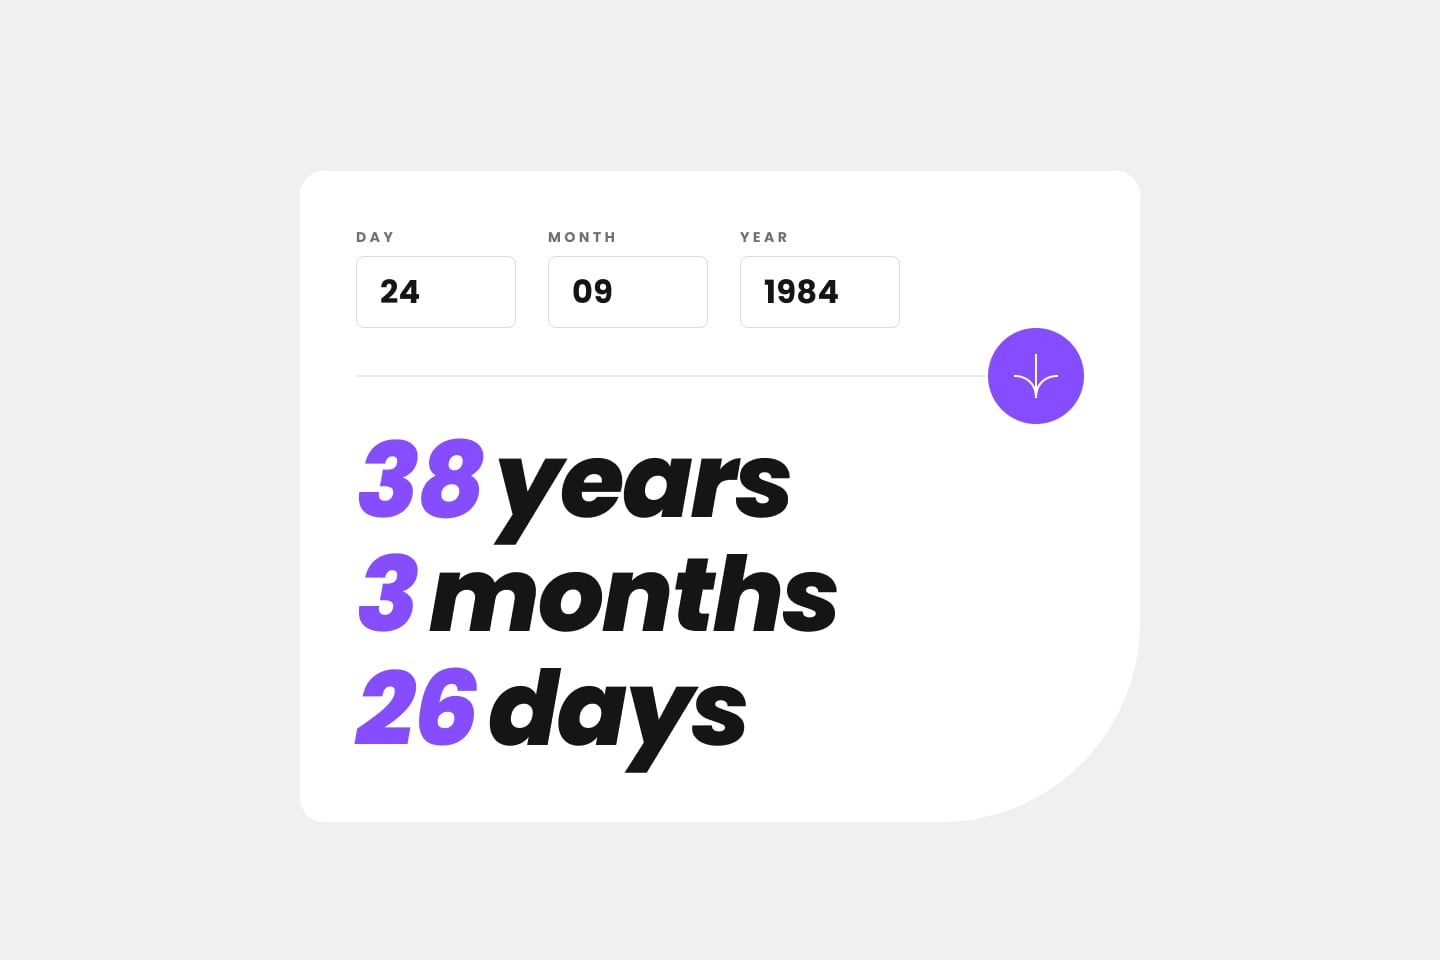
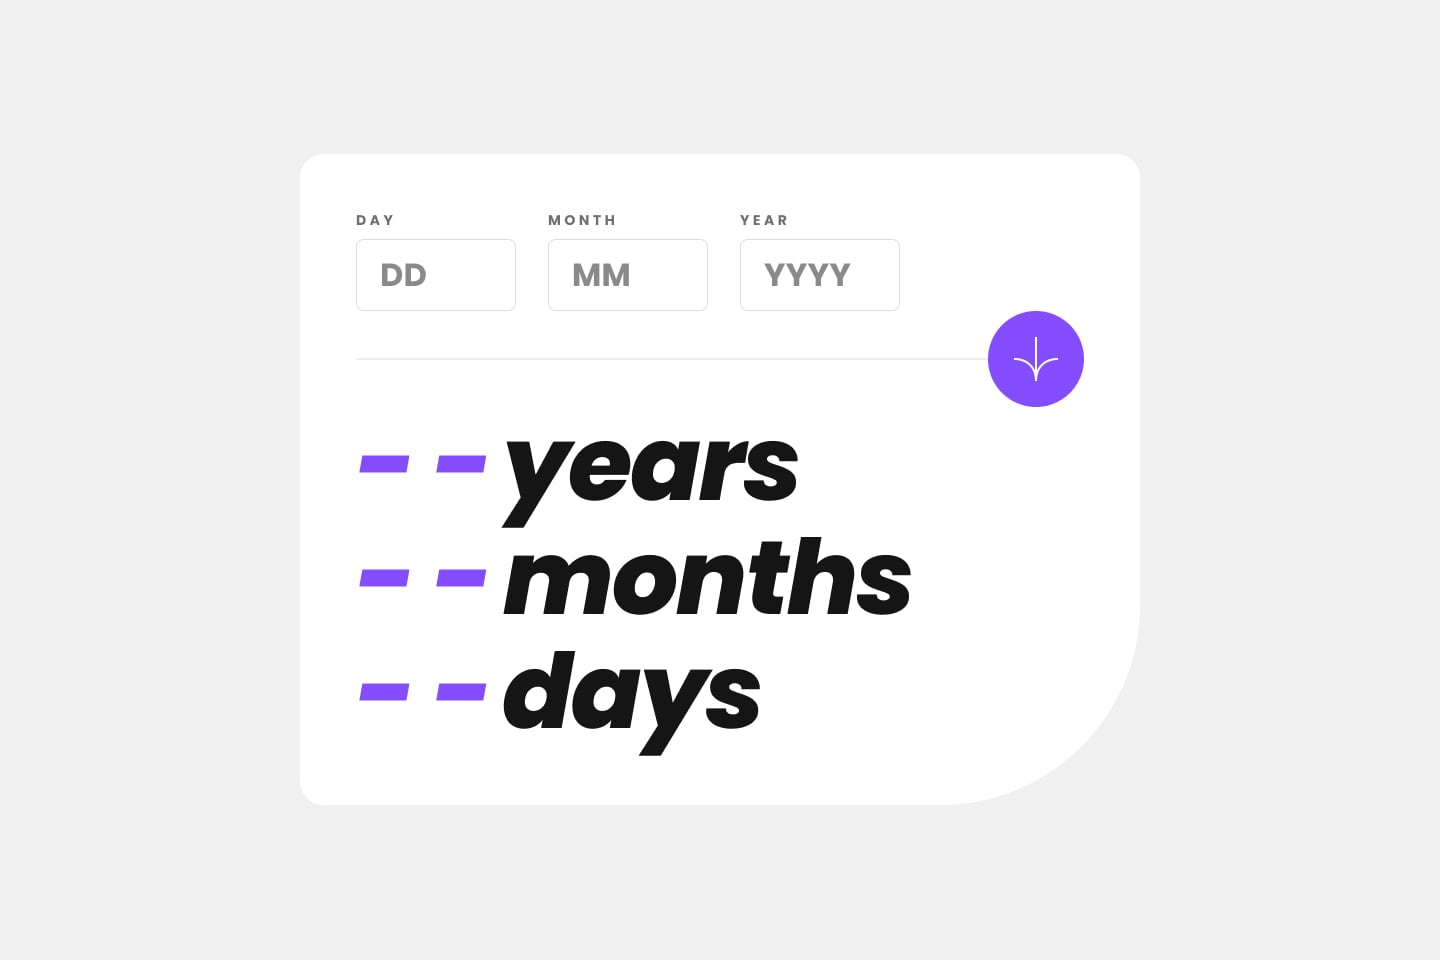
adding mode button to change user exprience :)

diff --git a/src/app/age-calculator/page.tsx b/src/app/age-calculator/page.tsx
@@ -13,6 +13,22 @@ const Page = () => {
   const [monthError, setmonthError] = useState<string>("");
   const [yearError, setyearError] = useState<string>("");
 
+  const [mode, setMode] = useState<string>("normal");
+
+  const switchMode = () => {
+    switch (mode) {
+      case "normal":
+        setMode("dynamic");
+        break;
+      case "dynamic":
+        setMode("normal");
+        break;
+      default:
+        setMode("dynamic");
+        break;
+    }
+  };
+
   const handleAge = () => {
     const word: any = document.querySelectorAll(".word");
     const input: any = document.querySelectorAll("input");
@@ -25,13 +41,13 @@ const Page = () => {
 
     const date = moment(
       `${day.value}/${month.value}/${year.value}`,
-      "DD/MM/YYYY"
+      "D/M/Y",
+      true
     );
 
     const today = moment().format();
     const valid = date.isValid();
     const future = date.isAfter(today);
-    console.log(valid);
 
     const check = () => {
       const dayValue = Number(day.value);
@@ -143,17 +159,37 @@ const Page = () => {
     result();
   };
 
+  const dynamicMode = () => {
+    if (mode === "dynamic") {
+      handleAge();
+    }
+  };
+
   const moving = {
     initial: {
       opacity: 0,
+      y: -50,
     },
     animate: {
       opacity: 1,
+      y: 0,
     },
   };
 
   return (
     <main className={Styles.page}>
+      <motion.button
+        key={mode}
+        variants={moving}
+        initial="initial"
+        animate="animate"
+        className={Styles.mode}
+        onClick={() => {
+          switchMode();
+        }}
+      >
+        {mode}
+      </motion.button>
       <section className={Styles.container}>
         <ul className={Styles.inputs}>
           <li className={Styles.input}>
@@ -163,6 +199,9 @@ const Page = () => {
               type="number"
               placeholder="dd"
               min={1}
+              onChange={() => {
+                dynamicMode();
+              }}
             />
             <span className={Styles.error}>{dayError}</span>
           </li>
@@ -173,6 +212,9 @@ const Page = () => {
               type="number"
               placeholder="mm"
               min={1}
+              onChange={() => {
+                dynamicMode();
+              }}
             />
             <span className={Styles.error}>{monthError}</span>
           </li>
@@ -182,14 +224,18 @@ const Page = () => {
               className={Styles.three}
               type="number"
               placeholder="yyyy"
-              min={0}
+              onChange={() => {
+                dynamicMode();
+              }}
             />
             <span className={Styles.error}>{yearError}</span>
           </li>
         </ul>
+
         <div className={Styles.divider}>
           <div className={Styles.line} />
-          <div
+          <button
+            disabled={mode === "dynamic" ? true : false}
             className={Styles.button}
             onClick={() => {
               handleAge();
@@ -211,8 +257,9 @@ const Page = () => {
                 <path d="M1 22.019C8.333 21.686 23 25.616 23 44M23 44V0M45 22.019C37.667 21.686 23 25.616 23 44" />
               </g>
             </svg>
-          </div>
+          </button>
         </div>
+
         <ul className={Styles.result}>
           <li className={Styles.status}>
             <motion.p

diff --git a/src/app/age-calculator/page.module.css b/src/app/age-calculator/page.module.css
@@ -7,6 +7,42 @@
   justify-content: center;
   align-items: center;
 
+  .mode {
+    position: absolute;
+    top: 20px;
+    background-color: hsl(259, 100%, 65%);
+
+    padding: 0px 20px;
+    border-radius: 8px;
+    color: white;
+    font-family: rafah;
+    font-size: 1.5rem;
+    font-feature-settings: "aalt";
+    text-transform: uppercase;
+    cursor: pointer;
+    transition: 0.3s;
+    text-align: center;
+    z-index: 1;
+    box-shadow: 0px 0px 0px black;
+
+    &:hover {
+      background-color: black;
+      box-shadow: 10px 10px 1px hsl(259, 100%, 65%);
+    }
+
+    @media screen and (max-width: 768px) {
+      &:hover {
+        background-color: hsl(259, 100%, 65%);
+        box-shadow: 0px 0px 0px black;
+      }
+
+      &:active {
+        background-color: black;
+        box-shadow: 10px 10px 1px hsl(259, 100%, 65%);
+      }
+    }
+  }
+
   .container {
     background-color: white;
     height: 70vh;
@@ -116,8 +152,22 @@
           }
         }
 
-        &:hover {
+        &:disabled {
+          background-color: hsl(260, 52%, 71%);
+        }
+
+        &:hover:not(:disabled) {
           background-color: black;
+        }
+
+        @media screen and (max-width: 768px) {
+          &:hover:not(:disabled) {
+            background-color: hsl(259, 100%, 65%);
+          }
+
+          &:active:not(:disabled) {
+            background-color: black;
+          }
         }
       }
     }
@@ -176,11 +226,11 @@
         left: 50%;
         transform: translate(-50%, -50%);
 
-        &:hover {
+        &:hover:not(:disabled) {
           background-color: hsl(259, 100%, 65%);
         }
 
-        &:active {
+        &:active:not(:disabled) {
           background-color: black;
         }
       }

diff --git a/src/app/challenges.tsx b/src/app/challenges.tsx
@@ -157,7 +157,7 @@ const challenges: Challenge[] = [
     from: handleFrom("12/03/2024 23:00"),
     date: handleDate("12/04/2024"),
     days: handleTime("12/03/2024 23:00", "12/04/2024 22:25"),
-    skills: ["html", "css", "js"],
+    skills: ["html", "css", "js", "react"],
   },
 ];
 
